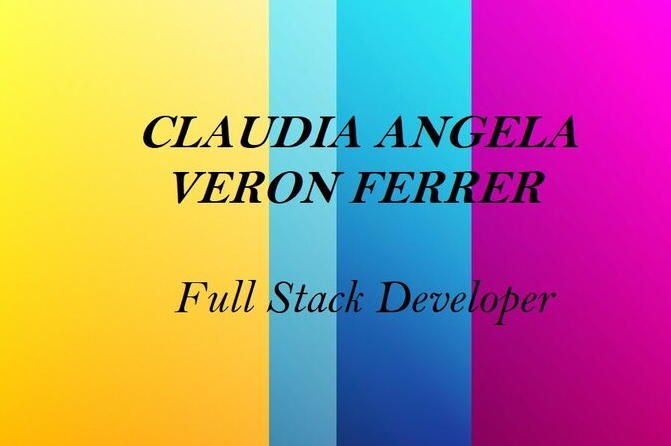
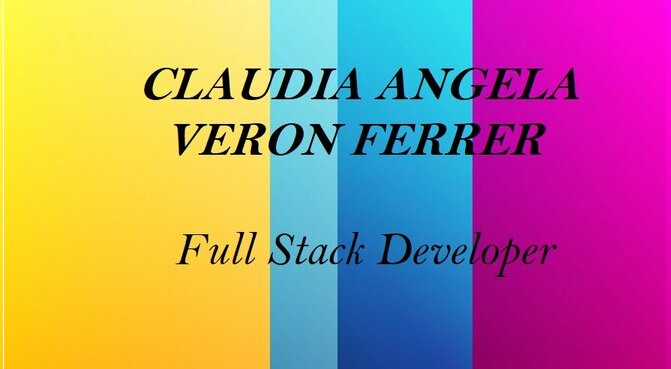
.

Changed region(s): [[0.2086, 0.0, 0.8644, 1.0], [0.9836, 0.9539, 1.0, 0.9837]]

diff --git a/README.md b/README.md
@@ -1,4 +1,4 @@
-<img src="./fondo-colores-developer.png" style="width:250px"></img>
+<img src="gradienta-PRgmOiN9jIE-unsplash.jpg"></img>
 
 
 ## Hello World 🌎
